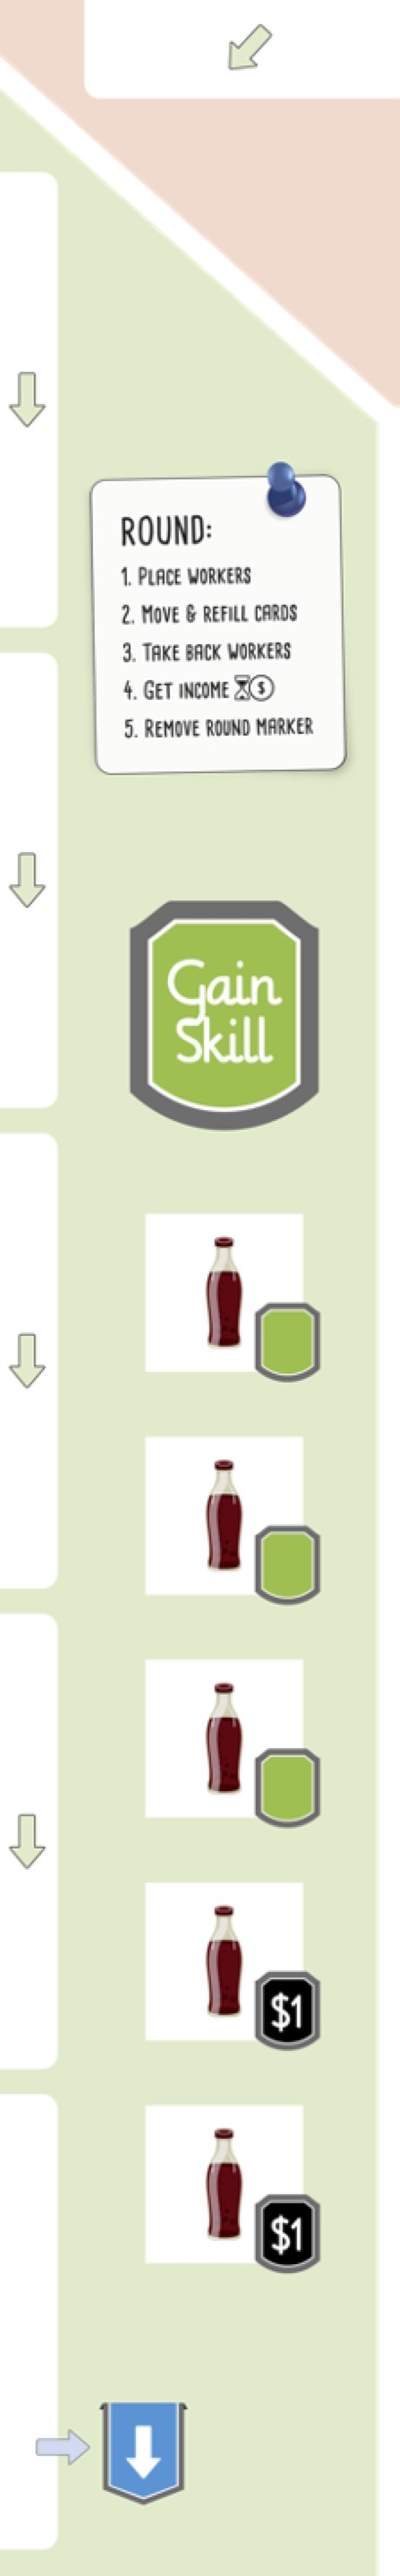
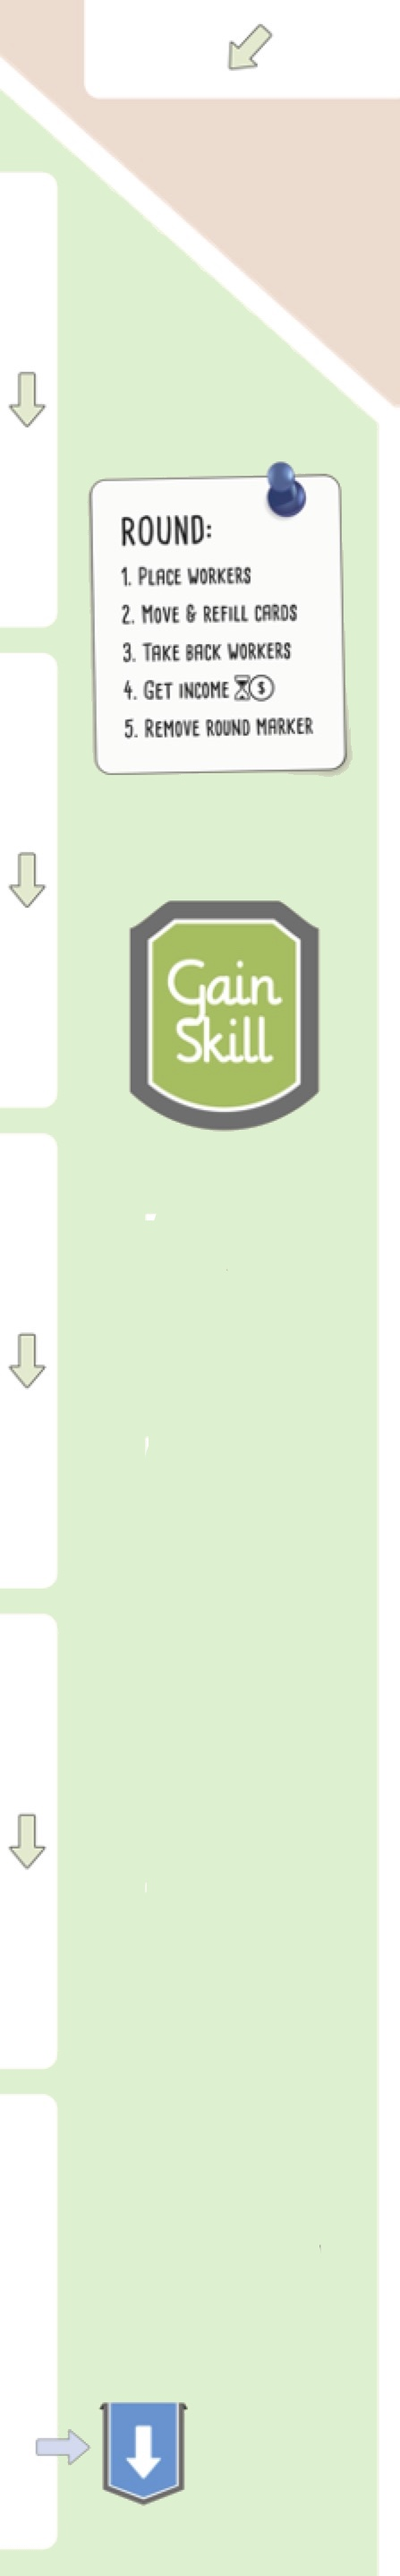
dec 4

Changed region(s): [[0.349, 0.4643, 0.8143, 0.8977]]

diff --git a/src/views/Collectors.vue b/src/views/Collectors.vue
@@ -13,7 +13,17 @@
             @buyCard="buyCard($event)"
             @placeBottle="placeBottle('buy', $event)"
           />
+          <section class="buy_skill">
+            <CollectorsCard
+              v-for="(card, index) in skillsOnSale"
+              :card="card"
+              :key="index"
+            />
+          </section>
         </section>
+        <!-- <section class="buy_skill">
+         
+        </section> -->
         <section class="gameboard">
           <section class="item_bottle">
             <Bottles
@@ -26,7 +36,7 @@
               @placeBottle="placeBottle('buy', $event)"
             />
           </section>
-          <section class="box skill">skill</section>
+          <section class="box skill"></section>
           <section class="box market">market</section>
           <section class="box worker">worker</section>
           <section class="box auction">auction</section>
@@ -307,6 +317,17 @@ footer a:visited {
   width: 100%;
   grid-column: 2/3;
 }
+
+.buy_skill {
+  position: relative;
+  left: -4vw;
+  top: -6vh;
+  display: grid;
+  grid-template-rows: repeat(5, 180px);
+}
+.buy_skill div {
+  transform: scale(0.5) translate(-50%, -50%);
+}
 .buy_item {
   position: relative;
   left: 13vw;
@@ -321,11 +342,11 @@ footer a:visited {
 }
 .item_bottle >>> .buttons {
   top: 5vh;
-  left: 2vw;
+  left: 1vw;
 }
 .item_bottle >>> .button {
-  width: 7em;
-  height: 7em;
+  width: 5em;
+  height: 5em;
 }
 
 .skill {

diff --git a/src/components/Bottles.vue b/src/components/Bottles.vue
@@ -97,8 +97,8 @@ export default {
   z-index: 0;
 }
 .btn-style {
-  width: 7em;
-  height: 7em;
+  width: 6em;
+  height: 6em;
   background-image: url("/images/bottle.jpg");
   background-size: 100% 100%;
 }
